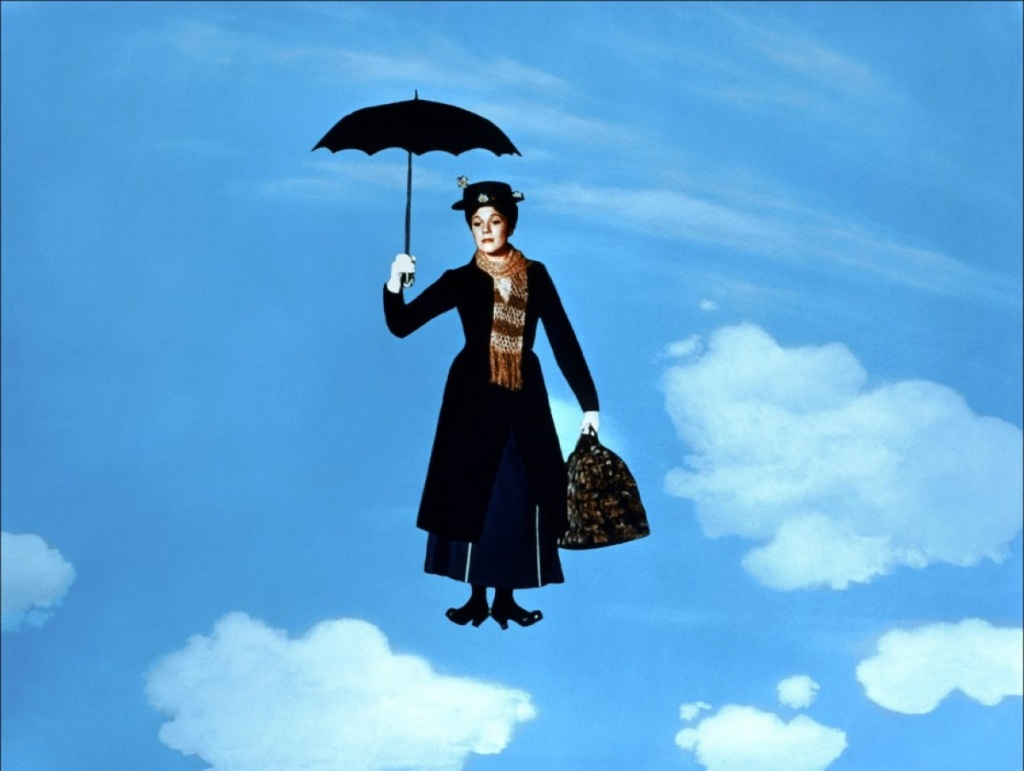
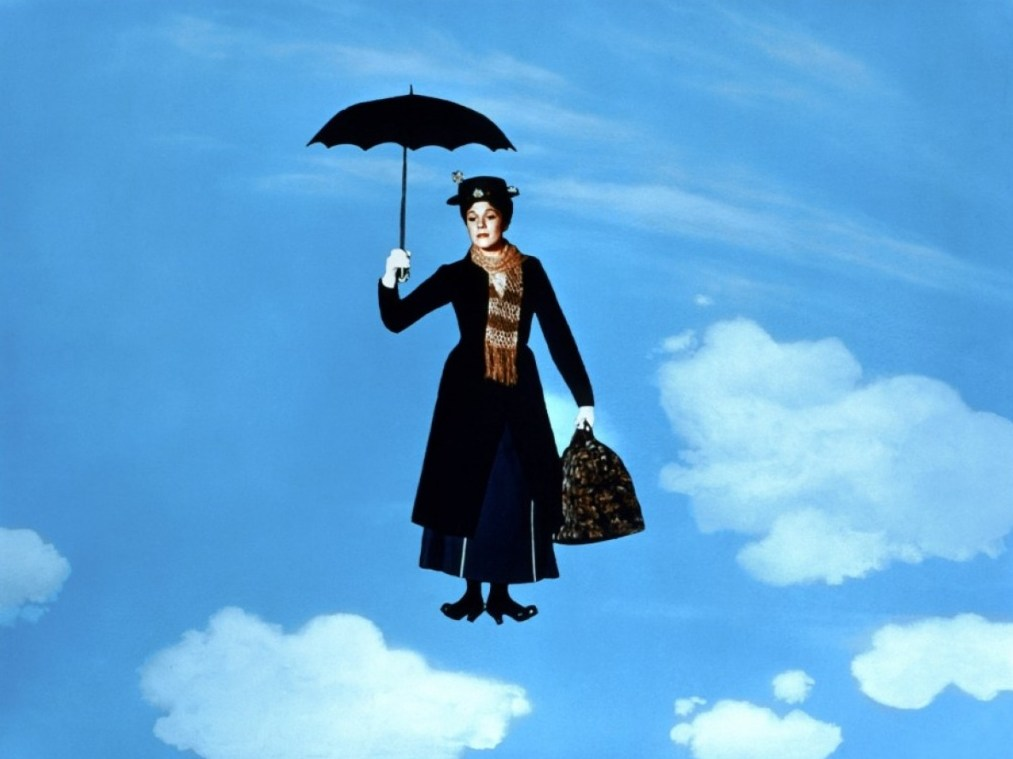
MAJ
Contenus
Carto hôtels commencée
images réduites
Css mise à jour

diff --git a/index.html b/index.html
@@ -70,21 +70,21 @@
 			  <li class="divider-vertical"></li>
 				<li class="dropdown">
 					<a class="dropdown-toggle" data-toggle="dropdown" href="#">
-						je voudrais savoir...
+						Je voudrais savoir...
 						<b class="caret"></b>
 					</a>
 					<ul class="dropdown-menu">
 						<li class="menu_entry">
-							<a href="#dresscode">Quel est le dresscode?</a>
+							<a href="#dresscode">... quel est le dresscode?</a>
 						</li>
 						<li class="menu_entry">
-							<a href="#logis">O&ugrave; peut-on loger?</a>
+							<a href="#logis">... o&ugrave; peut-on loger?</a>
 						</li>
 						<li class="menu_entry">
-							<a href="#enfants">Et les enfants?</a>
+							<a href="#enfants">... que faire des enfants?</a>
 						</li>
 						<li class="menu_entry">
-							<a href="#liste">Avez-vous une liste de mariage?</a>
+							<a href="#liste">... avez-vous une liste de mariage?</a>
 						</li>
 					</ul>
 				</li>
@@ -111,7 +111,7 @@
 				<h2>O&ugrave;?</h2>
 				<p><img src="img/x.jpg" title="Merci Junior!"/></p>
 				<p>Le mariage se d&eacute;roulera &agrave; la Mairie de <strong>Chatillon sur Seine</strong>, &agrave; 1h de Dijon et 2h30 de Paris.</p>
-				<div id="mobile_map" class="visible-phone">
+				<div id="mobile_map" class="visible-phone map">
 				</div>
 				<p><strong>En voiture</strong>:
 				<br/>
@@ -119,7 +119,7 @@
 				</p>
 				<p><strong>En train</strong>:
 				<br/>
-				La gare la plus proche de Chatillon sur Seine se trouve &agrave; Montbard, et un service de bus relie Montbard &agrave; Chatillon sur Seine. Des trains TGV ou TER au d&eacute;part de la Gare de Lyon &agrave; Paris vous y d&eacute;posent. M&ecirc;me chose depuis Dijon. Il existe m&ecirc;me des trains directs depuis Lyon, mais la SNCF vous renseignera &agrave; la perfection.
+				La gare la plus proche de Chatillon sur Seine se trouve &agrave; Montbard, et un service de bus relie les deux villes. Si vous avez besoin de transport entre Montbard et Chatillon sur Seine, faites-le nous savoir.
 				</p>
 			</div>
 			</div>
@@ -134,7 +134,7 @@
 			<div class="block" id="contact" >
 			<div>
 				<h2>Comment nous contacter?</h2>
-				<p>En cas d'absence d'un projecteur suffisament puissant pour balayer le ciel avec nos initiales, vous pouvez utiliser les moyens suivants:</p>
+				<p>Si vous n'avez pas de projecteur suffisament puissant pour balayer le ciel avec nos initiales, vous pouvez utiliser les moyens suivants:</p>
 				<ul>
 					<li><strong>par email</strong>: <a href="mailto:mariage@beaudoux.net">mariage@beaudoux.net</a></li>
 					<li><strong>par courrier</strong>: Anne-Ga&euml;lle Donnet et Samy Beaudoux, 8 rue Seguin, 69002 Lyon</li>
@@ -153,16 +153,10 @@
 			<div class="block" id="logis">
 			<div >
 				<h2>O&ugrave; peut-on loger?</h2>
-				<p>Une liste d'h&ocirc;tels/g&icirc;tes/chambres d'h&ocirc;te &agrave; proximit&eacute; est disponible ci-dessous:</p>
+				<p>Une liste d'h&ocirc;tels/g&icirc;tes/chambres d'h&ocirc;te &agrave; proximit&eacute; du lieu du vin d'honneur et du repas est disponible ci-dessous:</p>
 				<ul id="logements">
-					<li>TODO</li>
+					
 				</ul>
-				<table>
-					<tr>
-						<td>TODO
-						</td>
-					</tr>
-				</table>
 				<p>Il est possible de camper sur les lieux du mariage pour les afficionados de la toile de tente.</p>
 			</div>
 			</div>
@@ -170,7 +164,8 @@
 			<div class="block" id="enfants">
 			<div >
 				<h2>Et les enfants?</h2>
-				<p>Nous sommes actuellement &agrave; la recherche des clones de Mary Poppins n&eacute;cessaires &agrave; la garde des enfants, ces derniers seront gard&eacute;s dans le g&icirc;te jouxtant la salle du mariage. Il se peut toutefois que les possibilit&eacute;s de garde soient modifi&eacute;es en cas d'inexistence de clones de Mary Poppins...</p>
+				<p>Nous sommes actuellement &agrave; la recherche des clones de Mary Poppins n&eacute;cessaires &agrave; la garde des enfants pendant le repas, ces derniers seront gard&eacute;s dans le g&icirc;te jouxtant la salle du mariage. Il se peut toutefois que les possibilit&eacute;s de garde soient modifi&eacute;es en cas d'inexistence de clones de Mary Poppins...</p>
+				<p>Cette section sera mise &agrave; jour ult&eacute;rieurement quand nous aurons plus d'informations.</p>
 			</div>
 			</div>
 			
@@ -247,7 +242,7 @@ Et l'on vit comme &ccedil;a jusqu'&agrave; la prochaine fois</pre>
 				<span class="legend">le mariage (all&eacute;gorie) par Matthias B.</span>
 			</div>
 			
-			<div id="ou_illustration" class="illustration">
+			<div id="ou_illustration" class="illustration map">
 			</div>
 			
 			<div id="quand_illustration" class="illustration">
@@ -259,7 +254,7 @@ Et l'on vit comme &ccedil;a jusqu'&agrave; la prochaine fois</pre>
 			<div id="dresscode_illustration" class="illustration">
 			</div>
 			
-			<div id="logis_illustration" class="illustration">
+			<div id="logis_illustration" class="illustration map">
 			</div>
 			
 			<div id="enfants_illustration" class="illustration">
@@ -319,15 +314,26 @@ Et l'on vit comme &ccedil;a jusqu'&agrave; la prochaine fois</pre>
 			
 			
 			var LatLngChatillonSurSeine = new google.maps.LatLng(47.860455, 4.573714);
+			var LatLngAiseyBonEspoir = new google.maps.LatLng(47.755541,4.56512);
+			
 			var mapOptions = {
 				zoom: 7,
 				streetViewControl: false,
 				center: LatLngChatillonSurSeine,
-				mapTypeId: google.maps.MapTypeId.ROADMAP
+				mapTypeId: google.maps.MapTypeId.ROADMAP 
 			};
 			var mapIllustration = new google.maps.Map(document.getElementById('ou_illustration'), mapOptions);
 			var mapMobile = new google.maps.Map(document.getElementById('mobile_map'), mapOptions);
 			
+			var mapLogisOptions = {
+				zoom: 9,
+				streetViewControl: false,
+				center: LatLngChatillonSurSeine,
+				mapTypeId: google.maps.MapTypeId.HYBRID 
+			};
+			var mapLogis = new google.maps.Map(document.getElementById('logis_illustration'), mapLogisOptions);
+			
+			/* les amrkers sur la carte de la mairie */
 			var markerIllustration = new google.maps.Marker({
 				position: LatLngChatillonSurSeine,
 				map: mapIllustration,
@@ -338,6 +344,14 @@ Et l'on vit comme &ccedil;a jusqu'&agrave; la prochaine fois</pre>
 				map: mapMobile,
 				title: 'C\'est ici!'
 			});
+			
+			/* les markers sur la carte de bon espoir */
+			var markerBonEspoir = new google.maps.Marker({
+				position: LatLngAiseyBonEspoir,
+				map: mapLogis,
+				title: 'Vin d\'honneur et repas'
+			});
+			
 			
 			function daysTill() {
 			  //----------  EDIT THE VARIABLES BELOW  ------------------
@@ -358,7 +372,152 @@ Et l'on vit comme &ccedil;a jusqu'&agrave; la prochaine fois</pre>
 			
 			/* combien de jours? */
 			$("#remainingDays").text(daysTill().toString());
+			
+			
+			/* templating! Rick Strahl's */
+			var _tmplCache = {}
+			this.parseTemplate = function(str, data) {
+				/// <summary>
+				/// Client side template parser that uses &lt;#= #&gt; and &lt;# code #&gt; expressions.
+				/// and # # code blocks for template expansion.
+				/// NOTE: chokes on single quotes in the document in some situations
+				///       use &amp;rsquo; for literals in text and avoid any single quote
+				///       attribute delimiters.
+				/// </summary>    
+				/// <param name="str" type="string">The text of the template to expand</param>    
+				/// <param name="data" type="var">
+				/// Any data that is to be merged. Pass an object and
+				/// that object's properties are visible as variables.
+				/// </param>    
+				/// <returns type="string" />  
+				var err = "";
+				try {
+					var func = _tmplCache[str];
+					if (!func) {
+						var strFunc =
+						"var p=[],print=function(){p.push.apply(p,arguments);};" +
+									"with(obj){p.push('" +
+						//                        str
+						//                  .replace(/[\r\t\n]/g, " ")
+						//                  .split("<#").join("\t")
+						//                  .replace(/((^|#>)[^\t]*)'/g, "$1\r")
+						//                  .replace(/\t=(.*?)#>/g, "',$1,'")
+						//                  .split("\t").join("');")
+						//                  .split("#>").join("p.push('")
+						//                  .split("\r").join("\\'") + "');}return p.join('');";
+
+						str.replace(/[\r\t\n]/g, " ")
+						   .replace(/'(?=[^#]*#>)/g, "\t")
+						   .split("'").join("\\'")
+						   .split("\t").join("'")
+						   .replace(/<#=(.+?)#>/g, "',$1,'")
+						   .split("<#").join("');")
+						   .split("#>").join("p.push('")
+						   + "');}return p.join('');";
+
+						//alert(strFunc);
+						func = new Function("obj", strFunc);
+						_tmplCache[str] = func;
+					}
+					return func(data);
+				} catch (e) { err = e.message; }
+				return ""; //"< # ERROR: " + err.htmlEncode() + " # >";
+			}
+			
+			/* ok, maintenant peuplons les logis :) */
+			var logis = [
+				{
+					"Id": "CHATILLONHOTELCOTEDOR",
+					"Nom":"H&ocirc;tel de la C&ocirc;te-d'or",
+					"Adresse": "2, rue Charles Ronot",
+					"Telephone": "03 80 91 13 29",
+					"Infos": ["Hotel trois &eacute;toiles", "9 chambres", "70-80&euro; la chambre", "email: remillet.gerard@club-internet.fr"],
+					"Latitude":47.858303,
+					"Longitude":4.571182
+				},
+				{
+					"Id": "CHATILLONHOTELMONTAGNE",
+					"Nom":"H&ocirc;tel La Montagne",
+					"Adresse": "12, rue Mar&eacute;chal de Lattre de Tassigny",
+					"Telephone": "03 80 91 10 61",
+					"Infos": ["12 chambres", "40&euro; la chambre", "http://www.hotel-restaurant-lamontagne.com/hotel-chatillon-sur-seine-restaurant-bourgogne-21.html"],
+					"Latitude":47.830674,
+					"Longitude":4.524994
+				},
+				{
+					"Id": "CHATILLONHOTELSTVORLES",
+					"Nom":"H&ocirc;tel Le Saint Vorles",
+					"Adresse": "1, rue pr&eacute;s Carnot",
+					"Telephone": "03 80 81 55 83",
+					"Infos": ["&agrave; partir de 47 euros"],
+					"Latitude":47.830674,
+					"Longitude":4.524994
+				},
+				{
+					"Id": "CHATILLONHOTELCHEVALROUGE",
+					"Nom":"H&ocirc;tel du Cheval rouge",
+					"Adresse": "4 place du 8 Mai 1945",
+					"Telephone": "03 80 81 53 70",
+					"Infos": ["43 euros"],
+					"Latitude":47.859865,
+					"Longitude":4.570903
+				}
+			];
+
+			function createMarker(lat, lon, logisInfos) {
+				var newmarker = new google.maps.Marker({
+					position: new google.maps.LatLng(lat, lon),
+					map: mapLogis,
+					title: "" //logisInfos["Nom"] + " - " + logisInfos["Adresse"]
+				});
+
+				newmarker['infowindow'] = new google.maps.InfoWindow({
+						content: document.parseTemplate($("#LogisTemplate").html(), logisInfos)
+					});
+
+				google.maps.event.addListener(newmarker, 'mouseover', function() {
+					this['infowindow'].open(mapLogis, this);
+				});
+				
+				google.maps.event.addListener(newmarker, 'mouseout', function() {
+					this['infowindow'].close();
+				});
+				
+				google.maps.event.addListener(newmarker, 'click', function() {
+					window.scrollTo(0, $("#" + logisInfos["Id"]).position().top - 50);
+				});
+				
+				var newEntry = $("<li id='" + logisInfos["Id"] + "'>" + document.parseTemplate($("#LogisTemplate").html(), logisInfos) + "</li>");
+				
+				$("#logements").append(newEntry);
+				newEntry.on("click", function() {
+					mapLogis.setCenter(newMarker.getPosition()); 
+					newmarker['infowindow'].open(mapLogis)
+				});
+			}
+			
+			$.each(logis, function() {
+				createMarker(this["Latitude"], this["Longitude"], this);
+			});
+			
+			
 		});
+	</script>
+	
+	<script id="LogisTemplate" type="text/html">
+	 <div class="Logis">
+		<div class="Nom"><#= Nom #></div>
+		<div class="Adresse"><#= Adresse #></div>
+		<div class="Telephone"><#= Telephone #></div>
+		<div class="Informations">
+			<ul>
+				<# for(var i=0; i < Infos.length; i++)     
+				{ #>
+				<li><#= Infos[i]#></li>
+				<# } #>
+			</ul>
+		</div>
+	 </div>
 	</script>
   </body>
 </html>
